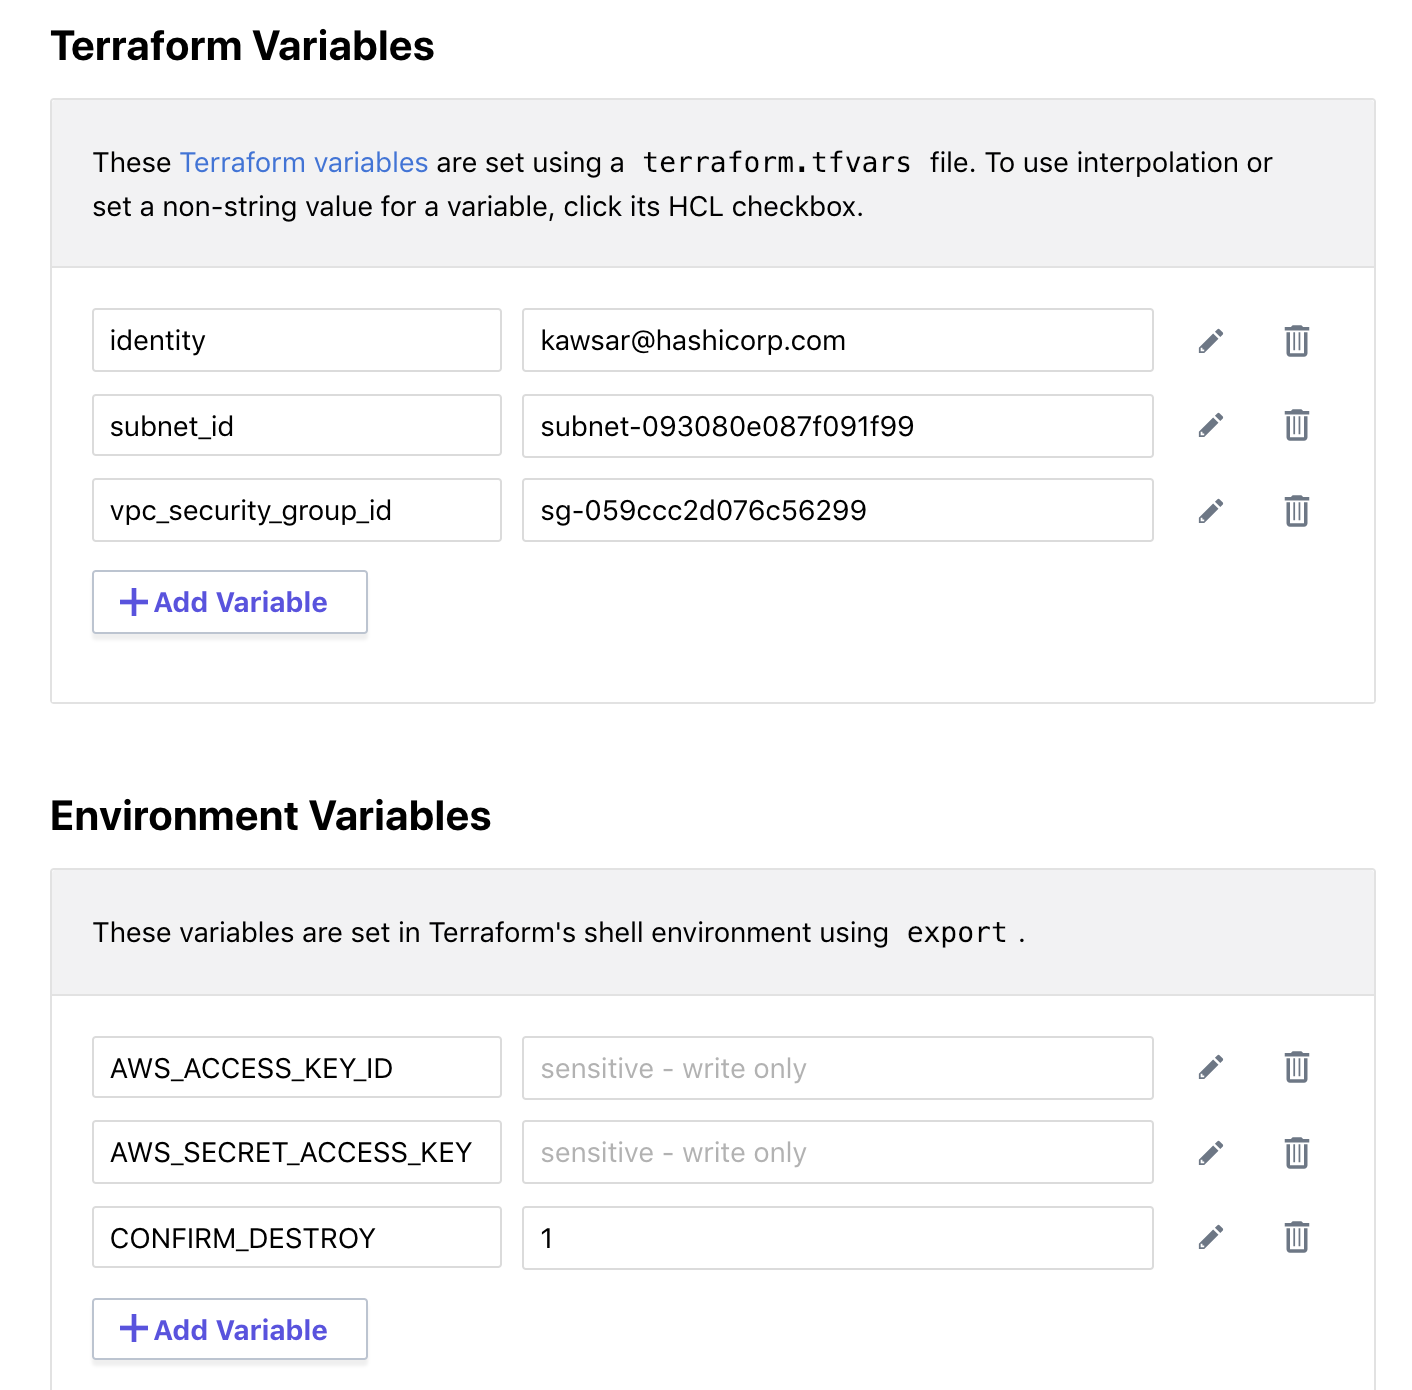
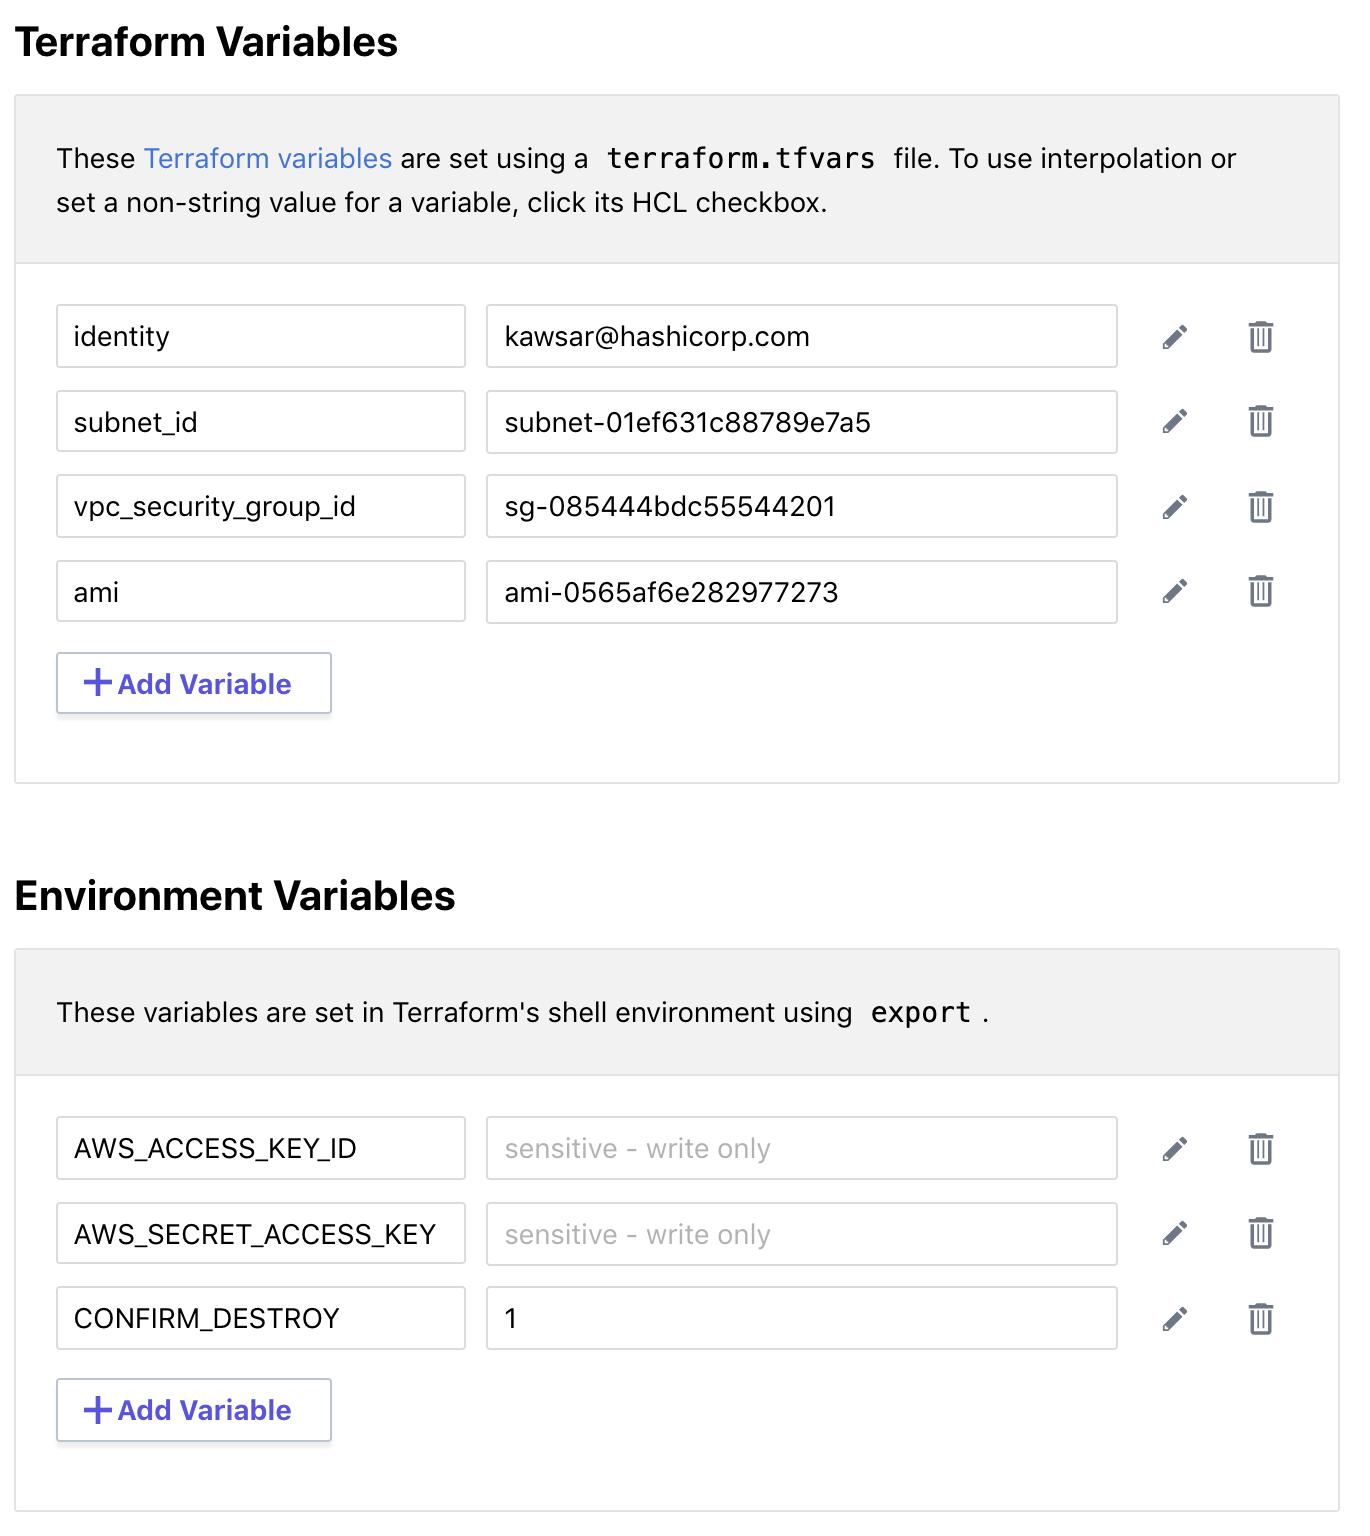
added lab3 images and incorporated policy sets

diff --git a/lab03/README.md b/lab03/README.md
@@ -1,54 +1,83 @@
 ### Lab03 - Sentinel Policy as Code
 
-Duration: 10 minutes
+Duration: 20 minutes
 
-In this Lab we will continue to use your Organization we setup in lab02. Using Sentinel policy-as-code framework we will restrict the AWS EC2 instance type being deployed.
+In this Lab we will continue to use the Organization as lab01. Using Sentinel policy-as-code framework we will restrict the AWS EC2 instance type being deployed.
 - The Sentinel policy code is included in lab03 directory: [restrict-aws-instance-type.sentinel](restrict-aws-instance-type.sentinel).
 - You can view [example Sentinel policies on AWS](https://github.com/hashicorp/terraform-guides/tree/master/governance/aws) in terraform-guides repo.
 
 **Tasks:**
-- Task 1: Add Sentinel policy to Organization
+- Task 1: Create a Sentinel policy
+- Task 2: Create a Policy Set
 - Task 2: Queue a Plan
 - Task 3: View Sentinel policy failure and Override
 - Task 4: Destroy provisioned infrastructure
 
 ### Terraform Enterprise
 
-### Task 1: Add Sentinel policy to Organization
-
-**Steps 1.1: Create a Policy **
+### Task 1: Create Sentinel policy
 - Go to your Organization URL, which is in the format: `https://app.terraform.io/app/<your-organization-name>`
 - Click on Settings at the top
 - Click on "Sentinel policies" from the Organization Settings menu on the left
+![TFE](images/lab03-01.png "TFE")
+
 - Click "Add New Policy"
-  - Set "POLICY NAME" to `restrict-aws-instance-type`
+  - Set "POLICY NAME" to something descriptive *with your name prepended*. E.g: `kawsar-restrict-aws-instance-type`.
   - Set "ENFORCEMENT MODE" to soft-mandatory (can override)
   - In "POLICY CODE", add the contents of [restrict-aws-instance-type.sentinel](restrict-aws-instance-type.sentinel).
+![TFE](images/lab03-02.png "TFE")
 
-- Click "Create policy" and provide a name such as "Global-policies"
+- _Optional: Browse [example Sentinel policies on AWS](https://github.com/hashicorp/terraform-guides/tree/master/governance/aws) in terraform-guides repo and add additional policies if you would like to try any of them out. Please remember to prepend policy name with your name._
 
-**Steps 1.2: Create Policy Set**
-- Click on "Policy Sets" and "Create a New Policy Set"
-- Choose "SCOPE OF POLICIES" to be "Policies enforced on all workspaces"
-- Under "Policies" please choose "restrict-aws-instance-type" and click "Add policy"
-- Click on "Create Policy Set" to save the policy
+- Leave the "Policy Sets" section empty.
+- Finally, please click "Create policy" and you should see your policy listed in this organization:
+![TFE](images/lab03-03.png "TFE")
 
+### Task 2: Create a Policy Set
+Policy Sets allow us to group policies and target them to be applied against a desired set of workspaces. Use the steps below to create a new Policy set:
+- Go to your Organization URL, which is in the format: `https://app.terraform.io/app/<your-organization-name>`
+- Click on Settings at the top
+- Click on "Policy Sets" from the Organization Settings menu on the left
+![TFE](images/lab03-04.png "TFE")  
+
+
+- Click on "Create a new Policy Set"
+  - Set "NAME" to something descriptive *with your name prepended*. E.g: `kawsar-aws-policies`.
+  - Choose "SCOPE OF POLICIES" to be "Policies enforced on selected workspaces"
+![TFE](images/lab03-05.png "TFE")
+
+- Under "Policies" please choose the policy you created under Task 1 "restrict-aws-instance-type" and click "Add policy".
+- Make sure your policy is listed before proceeding to next step as below:
+![TFE](images/lab03-06.png "TFE")
+
+- Under "Workspaces", select your own Workspace from the drop-down menu and click "Add Workspace".
+- Make sure your workspace is added before proceeding to next step as below:
+![TFE](images/lab03-07.png "TFE")
+
+- Finally, please click "Create Policy Set" to save the policy. You should see your policy set listed with 1 Workspace and 1 Policy (or more if you mapped additional policies).
+![TFE](images/lab03-08.png "TFE")
 
 ### Task 2: Queue a plan
 
 **Steps:**
-- Click on "Workspaces" from the top, and click on the Workspace you used for lab02.
-- Click on "Queue plan" from the top.
+- Click on "Workspaces" from the top, and click on the Workspace you used for lab01.
+- Click the "Queue Plan" drown down menu at the top right, enter a reason such as "sentinel test", then click "Queue Plan"
+
+Go to the "Runs" tab, or "Latest Run". Find the most recent one.
 
 ### Task 3: View Sentinel policy failure and Override
 
 **Steps:**
-- The Run should show a Policy failure. View the Allowed EC2 instance types in Sentinel Policy code. You will see `instance_type` is restricted to `t2.small`.
-- The server module [main.tf](lab01/server/main.tf) is using an `instance_type` of `t2.medium` which is causing the Policy to fail.
+- The Run should show a Policy failure: "Policy check soft failed"
+![TFE](images/lab03-09.png "TFE")
+
+- Lets understand why this policy has failed. View the `allowed_types` array in Sentinel Policy code [restrict-aws-instance-type.sentinel](restrict-aws-instance-type.sentinel). You will see that the `allowed_types` array only lists `t2.small` instances.
+- The server module [main.tf](../lab01/server/main.tf) is using an `instance_type` of `t2.medium` which is causing the Policy to fail.
 - Since you are the owner of the Organization, you are able to Override this Policy failure.
-  - Click on "Override & Continue" button Optionally adding some comments
+  - Click on "Override & Continue" button Optionally adding some comments.
   - Click on "Confirm and Apply" button to allow the Run to complete.
+- The Apply should go through successfully at this time.
 
 ### Task 4: Destroy provisioned infrastructure
 **Steps:**
-- Use the same steps as Lab02 to Destroy provisioned infrastructure
+- Use the same steps as Lab01 to Destroy provisioned infrastructure

diff --git a/lab01/README.md b/lab01/README.md
@@ -4,7 +4,7 @@ Duration: 45 minutes
 
 This lab demonstrates how to create a Workspace in Terraform Enterprise using the UI. This is called a [UI-driven run workflow](https://www.terraform.io/docs/enterprise/run/ui.html).
 
-This lab is for use with a student's own AWS credentials and is intended to run on Terraform Enterprise, however, it an also be run locally, see [local.md](local.md) for steps. 
+This lab is for use with a student's own AWS credentials and is intended to run on Terraform Enterprise, however, it an also be run locally, see [local.md](local.md) for steps.
 
 The Terraform configuration in this directory will provision one or more AWS EC2 instances and deploy an example Go application. To install the application, Terraform will generate a RSA SSH public and private key pair by Terraform using the Terraform [tls_private_key](https://www.terraform.io/docs/providers/tls/r/private_key.html) provider.
 
@@ -22,29 +22,28 @@ The Terraform configuration in this directory will provision one or more AWS EC2
   - An AWS account with IAM user credentials: `AWS_ACCESS_KEY_ID` and `AWS_SECRET_ACCESS_KEY`. For HashiCorp training students, this will be provided.
   - A previously created AWS Security Group and AWS Subnet ID. For HashiCorp training students, this will be provided.
   - Access to a Terraform Enterprise Server. This Lab will use the hosted SaaS version on [app.terraform.io](https://app.terraform.io), attendees will be provided a trial account.
-  - A [GitHub](https://github.com/) account.
 
 ### Task 1: Create a workspace in TFE
 
-- We will use the **aws-terraform-workshop** Organization in Terraform Enterprise. Please go to https://app.terraform.io and ensure you are in this organization, then click the "New Workspace" button at the top right.
+- Please go to [app.terraform.io](https://app.terraform.io), select the organization for this lab, then click the "New Workspace" button at the top right.
+  - HashiCorp training students will be added to a training organization
 
 - Give it a Unique name such as "<yourname>-training-lab01".
 
 - Choose GitHub as VCS connection.
-- Click the "Repository" field and you’ll see a list of available repositories in an auto-complete menu. Find the `aws-terraform-workshop` repo. If yours isn’t here, refresh the page.
+- Click the "Repository" field and you’ll see a list of available repositories in an auto-complete menu. Find the `kawsark/aws-terraform-workshop` repo.
 
 ![TFE](images/tfe-basics/lab01-06.png "TFE")
 
 - Click the "More Options" link
   - **TERRAFORM WORKING DIRECTORY:** By default Terraform will use repository root directory. In this case we will specify `lab01`.
-
   - **VCS BRANCH:** Terraform Enterprise can deploy from any branch. We'll use the default branch; alternatively you can specify `master`.
 
 ![TFE](images/tfe-basics/lab01-07.png "TFE")
 
 - Click the **Create Workspace** button.
 
-You’ll see a screen showing that a Terraform Enterprise workspace is connected to your GitHub repository. But we still need to provide Terraform with our secret key, access key, and other variables defined in the Terraform code as variables.
+You’ll see a screen showing that a Terraform Enterprise workspace is connected to a GitHub repository. But we still need to provide Terraform with our secret key, access key, and other variables defined in the Terraform code as variables.
 
 ## Task 2: Configure variables
 
@@ -61,6 +60,7 @@ In the top "Terraform Variables" section, click "Edit" and add 3 variables:
 - Key `identity`, value: `<your username or email>`
 - Key `subnet_id`, value: `<pre-created-subnet-id>`
 - Key `vpc_security_group_id`, value: `<pre-created-security-group-id>`
+- Key `ami`, value: `<pre-created-ami>`
 
 ### Step 2.3: Enter AWS Credentials as Environment Variables
 
@@ -68,7 +68,7 @@ There is also a section for environment variables. We'll use these to store AWS 
 **Note:** For HashiCorp training students, please issue the following command in your workstation to find the value: `cat /workstation/terraform/terraform.tfvars`
 
 Click "Edit" and add variables for your AWS credentials.
-```bash
+```
 AWS_ACCESS_KEY_ID="AAAA"
 AWS_SECRET_ACCESS_KEY="AAAA"
 ```
@@ -84,7 +84,7 @@ For this task, you'll queue a `terraform plan`.
 
 ### Step 3.1: Queue a plan and read the output
 
-Click the "Queue Plan" button at the top right.
+Click the "Queue Plan" drown down menu at the top right, enter a reason such as "lab", then click "Queue Plan"
 
 Go to the "Runs" tab, or "Latest Run". Find the most recent one (there will probably be only one).
 
@@ -136,10 +136,8 @@ Click "Add" and "Save".
 
 ### Step 6.2: Queue destroy plan
 
-It's sometimes necessary to queue a normal plan and then queue the destroy plan.
+- Click on the "Settings" dropdown, and choose "Destruction and Deletion"
+- Click "Queue Destroy Plan" button; note the messages under "Plan" that indicate that it will destroy several resources.
+![Destroy](images/destroy-button.png "TFE")
 
-At the top of the page, click the "Queue Plan" button. The plan will run and detect that no changes need to be provisioned.
-
-Now go back to the "Settings" tab. Scroll to the bottom and click "Queue Destroy Plan." Note the messages under "Plan" that indicate that it will destroy several resources.
-
-Click "Confirm and Apply." After a few seconds, your infrastructure will be destroyed as requested.
+Click "Confirm and Apply." After a few minutes, your infrastructure will be destroyed as requested.
